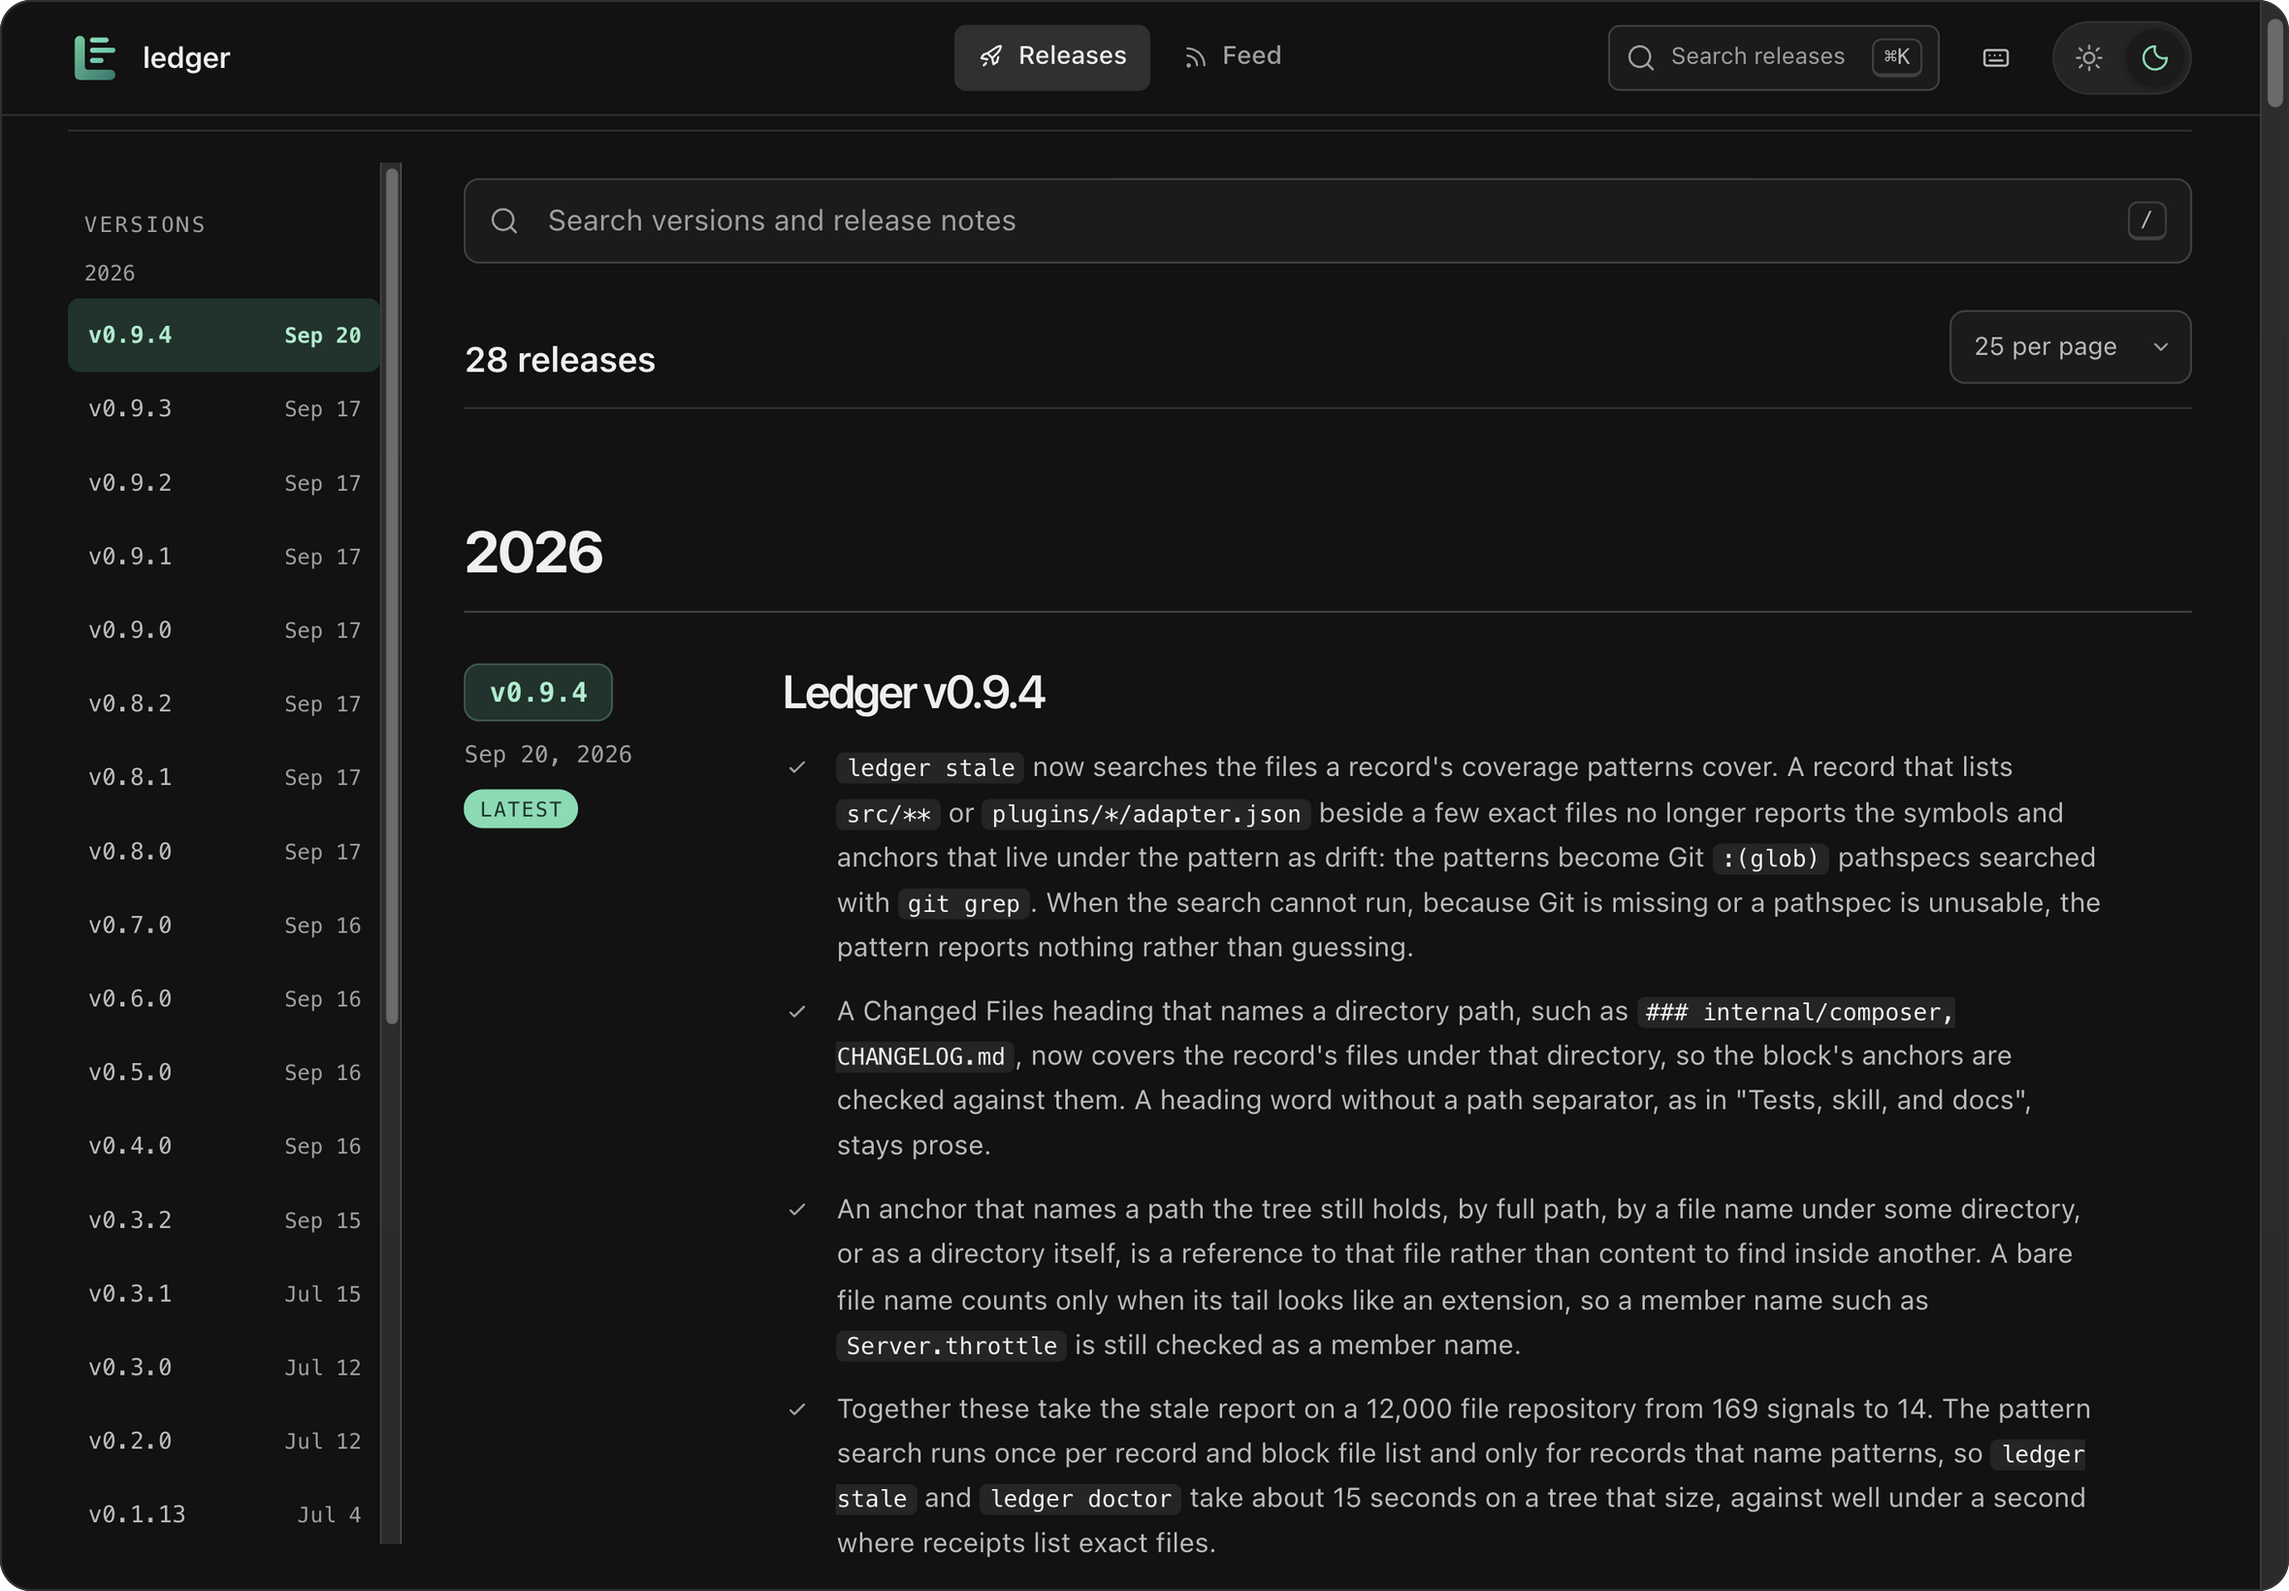
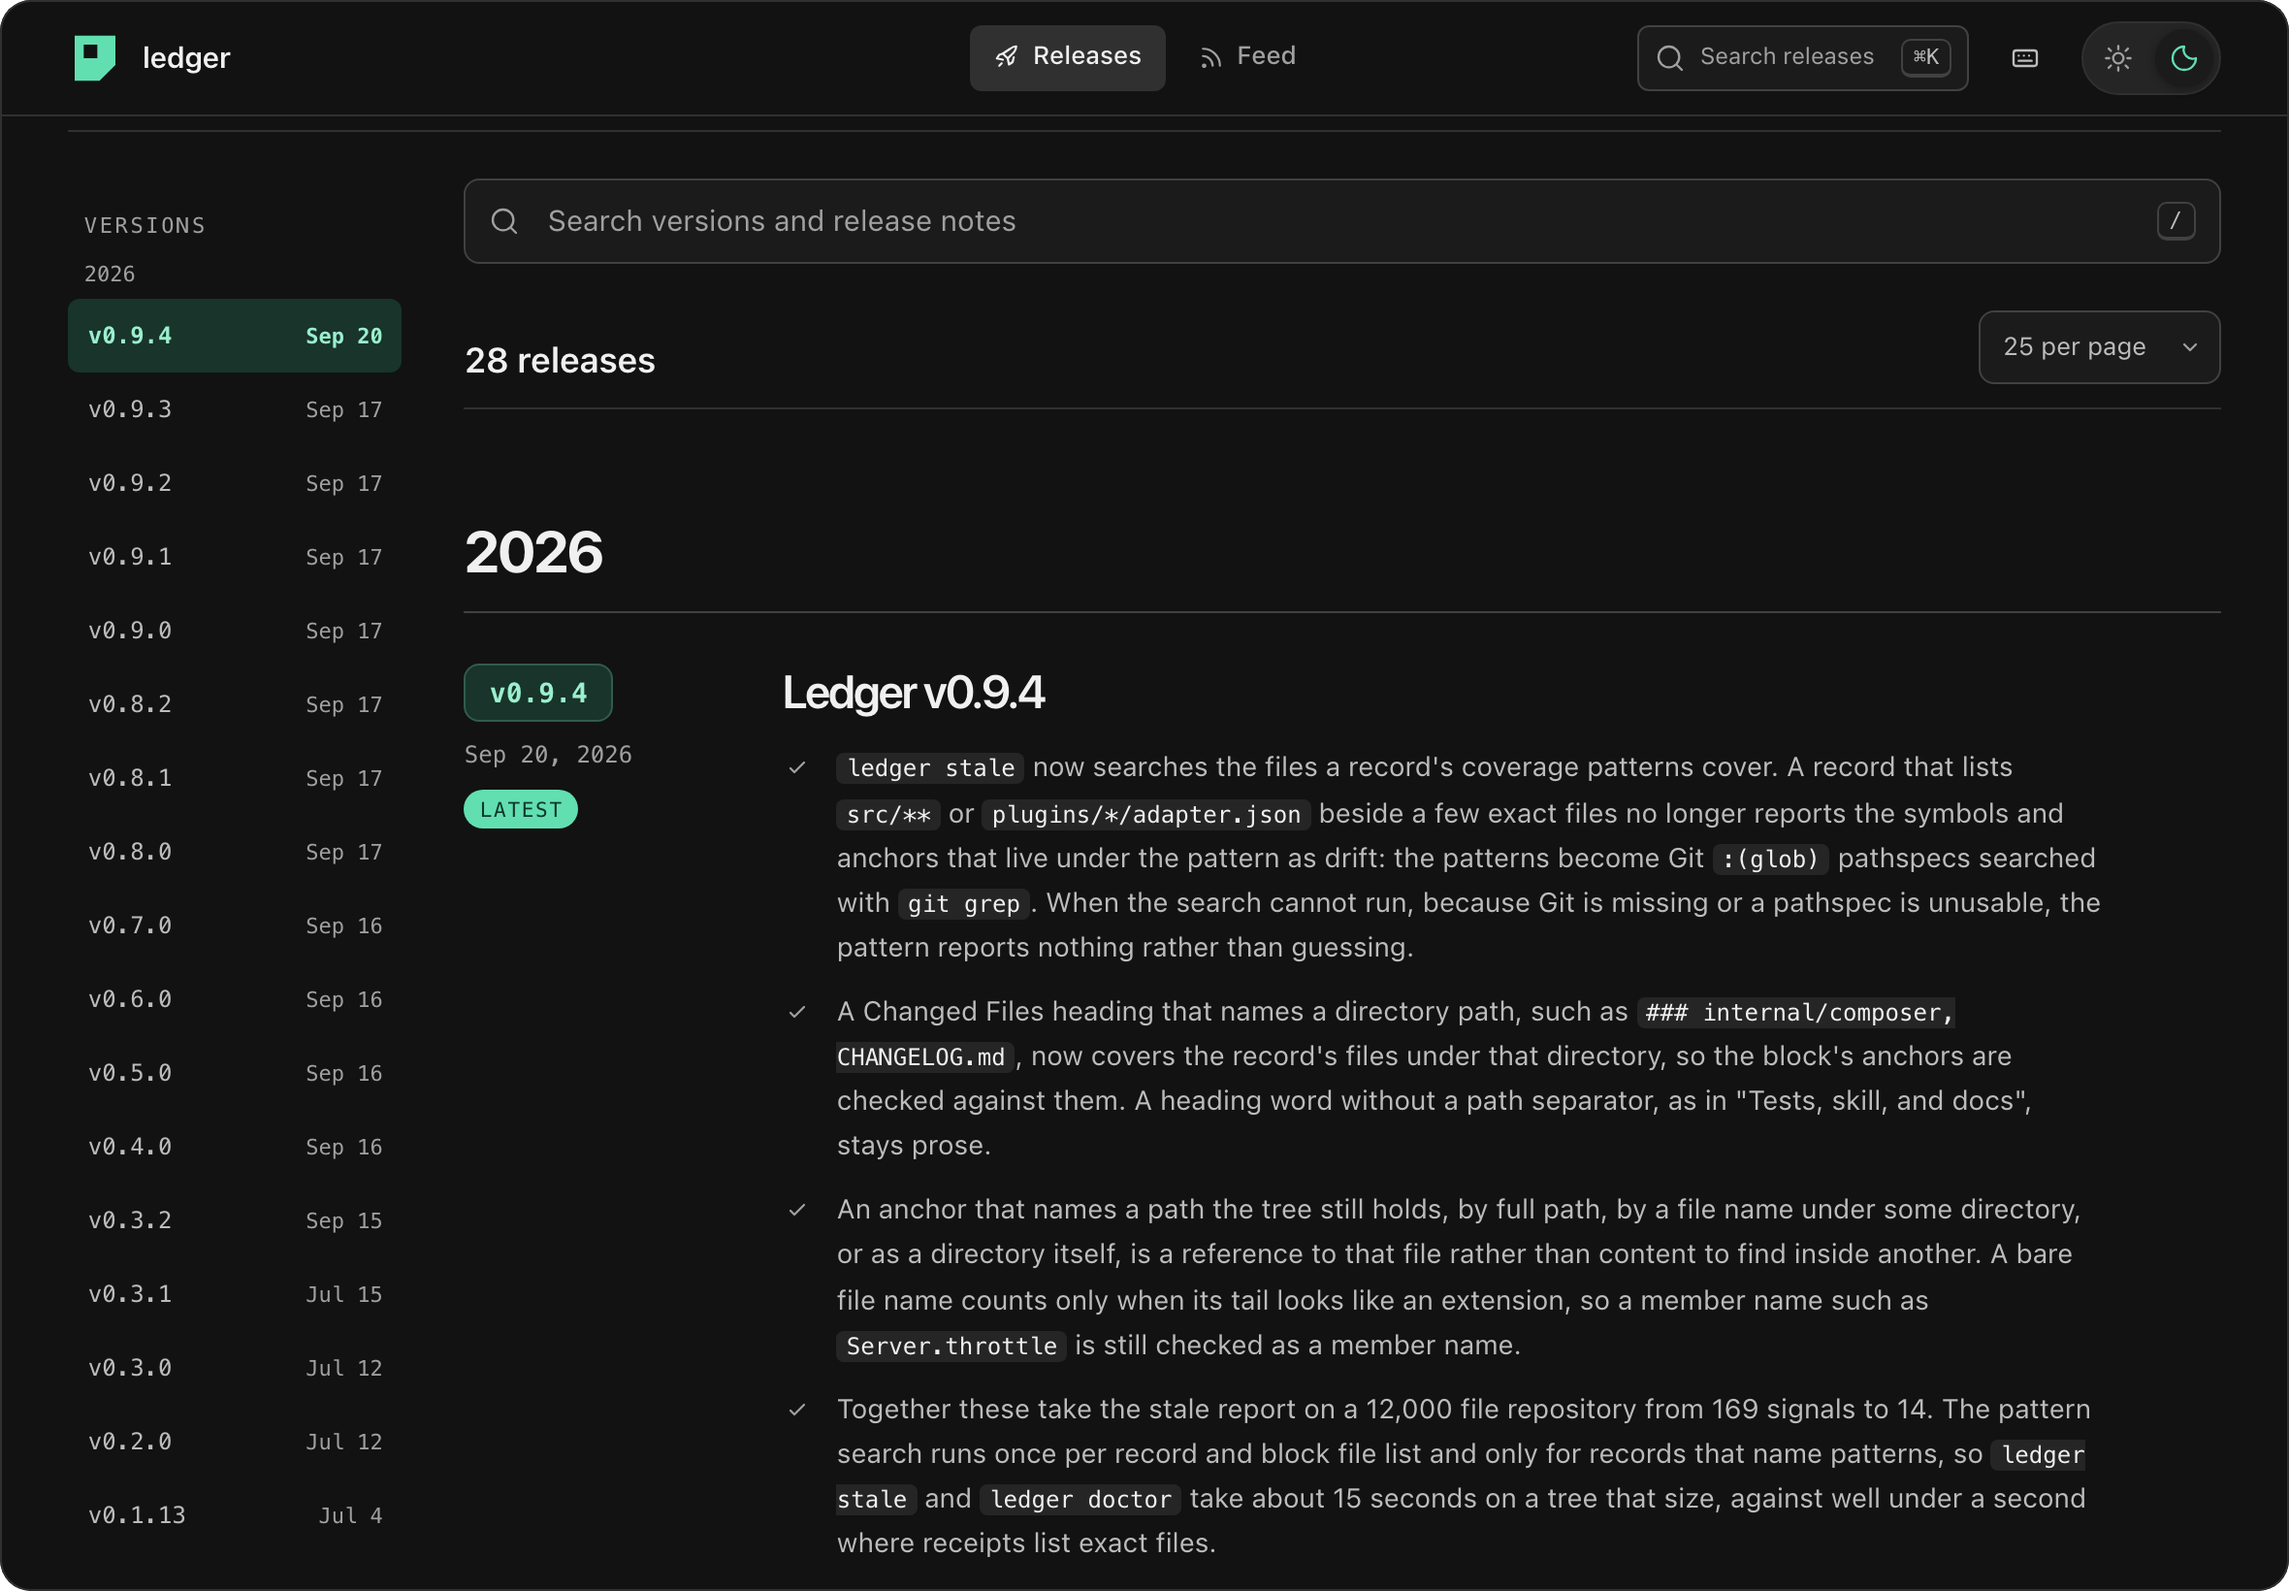
Refresh README captures for the new identity

diff --git a/.ledger/entries/0200-replace-the-ledger-icon-and-wordmark.md b/.ledger/entries/0200-replace-the-ledger-icon-and-wordmark.md
@@ -14,6 +14,11 @@ files:
   - "assets/ledger-logo-dark.svg"
   - "assets/ledger-logo.svg"
   - "assets/ledger.svg"
+  - "assets/readme/changelog.png"
+  - "assets/readme/overview-light.png"
+  - "assets/readme/overview.png"
+  - "assets/readme/records.png"
+  - "assets/readme/timeline.png"
   - "CONTRIBUTING.md"
   - "docs/ARCHITECTURE.md"
   - "docs/HANDOFF.md"
@@ -31,7 +36,7 @@ docs:
   - "docs/HANDOFF.md"
 docsImpact:
   status: "updated"
-  reason: "The README uses theme-specific logo lockups; contributor guidance, architecture, and handoff describe the mark, outlined wordmark, and reproducible assets."
+  reason: "The README uses theme-specific logo lockups and refreshed reader captures; contributor guidance, architecture, and handoff describe the mark, outlined wordmark, and reproducible assets."
   docs:
     - "README.md"
     - "CONTRIBUTING.md"
@@ -89,6 +94,18 @@ repo-native change records; emerald connects it with the existing interface.
   offline rendering, and relative README asset paths.
 - Docs impact: README presents the replacement identity directly.
 
+### README reader captures
+
+- Files: `assets/readme/overview.png`, `assets/readme/overview-light.png`,
+  `assets/readme/records.png`, `assets/readme/timeline.png`,
+  `assets/readme/changelog.png`
+- Changed: regenerated the five browser captures that show the header mark
+  using the existing Playwright script after Kyle authorized that browser.
+  The palette and receipt crops do not show the mark and remain unchanged.
+- On conflict: regenerate screenshots from the actual reader; preserve their
+  2x capture resolution and the script's framing.
+- Docs impact: the README's product images show the new identity.
+
 ### Durable guidance and history
 
 - Files: `CONTRIBUTING.md`, `docs/ARCHITECTURE.md`, `docs/HANDOFF.md`,
@@ -124,12 +141,15 @@ consistently without font loading or substitution.
 - Both reader profiles build and render within budget.
 - `npm run ci` passed with exit status 0: typecheck, 515 tests across 62 files, build, Ledger checks, and package dry run. Both logo variants and the font license are included in the package.
 - `node dist/cli.js ready 0200` and `git diff --check` passed.
-- `npm run readme:check` and final `node dist/cli.js ci` passed. This asset check verifies generated terminal artwork; it does not regenerate the browser captures noted below.
+- `node scripts/readme-screenshots.mjs overview overview-light records timeline changelog` passed and regenerated the five affected captures at 2x resolution.
+- Visual inspection of all five captures, including independent review of records, timeline, and public changelog, found no clipping, stray overlays, or framing defects.
+- `npm run readme:check` and final `node dist/cli.js ci` passed.
 
 ## Notes
 
 Manrope source: https://github.com/google/fonts/tree/main/ofl/manrope.
 The font was used to generate outlines once; it is not a runtime dependency.
-The shared preview can load the new reader but its screenshot operation is
-failing. README screenshot refresh is pending the browser-tool choice requested
-from Kyle; existing captures still contain the previous mark where visible.
+The shared preview could load the new reader but screenshot capture failed.
+Kyle explicitly authorized the existing Playwright capture script to finish
+the README refresh. Playwright was installed without saving dependencies or
+changing the lockfile.

diff --git a/docs/HANDOFF.md b/docs/HANDOFF.md
@@ -302,10 +302,11 @@ D006 records what was retired; D007 records the runtime decision below.
    exits 0 with 515 tests across 62 files; the SVG generator is deterministic,
    package contents include the logos and license, and independent visual
    review covers both schemes and small sizes. The local reader and favicon
-   use the new icon. Refreshing the five README captures that show the old
-   mark is pending: the shared browser loads pages but screenshot capture
-   fails, and Kyle has been asked whether to use the existing Playwright
-   capture script, as required by the host's browser-tool restriction.
+   use the new icon. The five README captures that show the header mark were
+   refreshed with the existing Playwright script after Kyle explicitly
+   authorized it when the shared browser's screenshot capture failed.
+   Playwright remains an unsaved local tool; the package manifest and lockfile
+   are unchanged.
 2. **Tell Kore when 0.9.4 is published, and nothing more.** Kore keeps
    reporting 169 stale signals until its pin moves, because the fix is in the
    tool rather than in its records. Kore's own session owns that bump across
